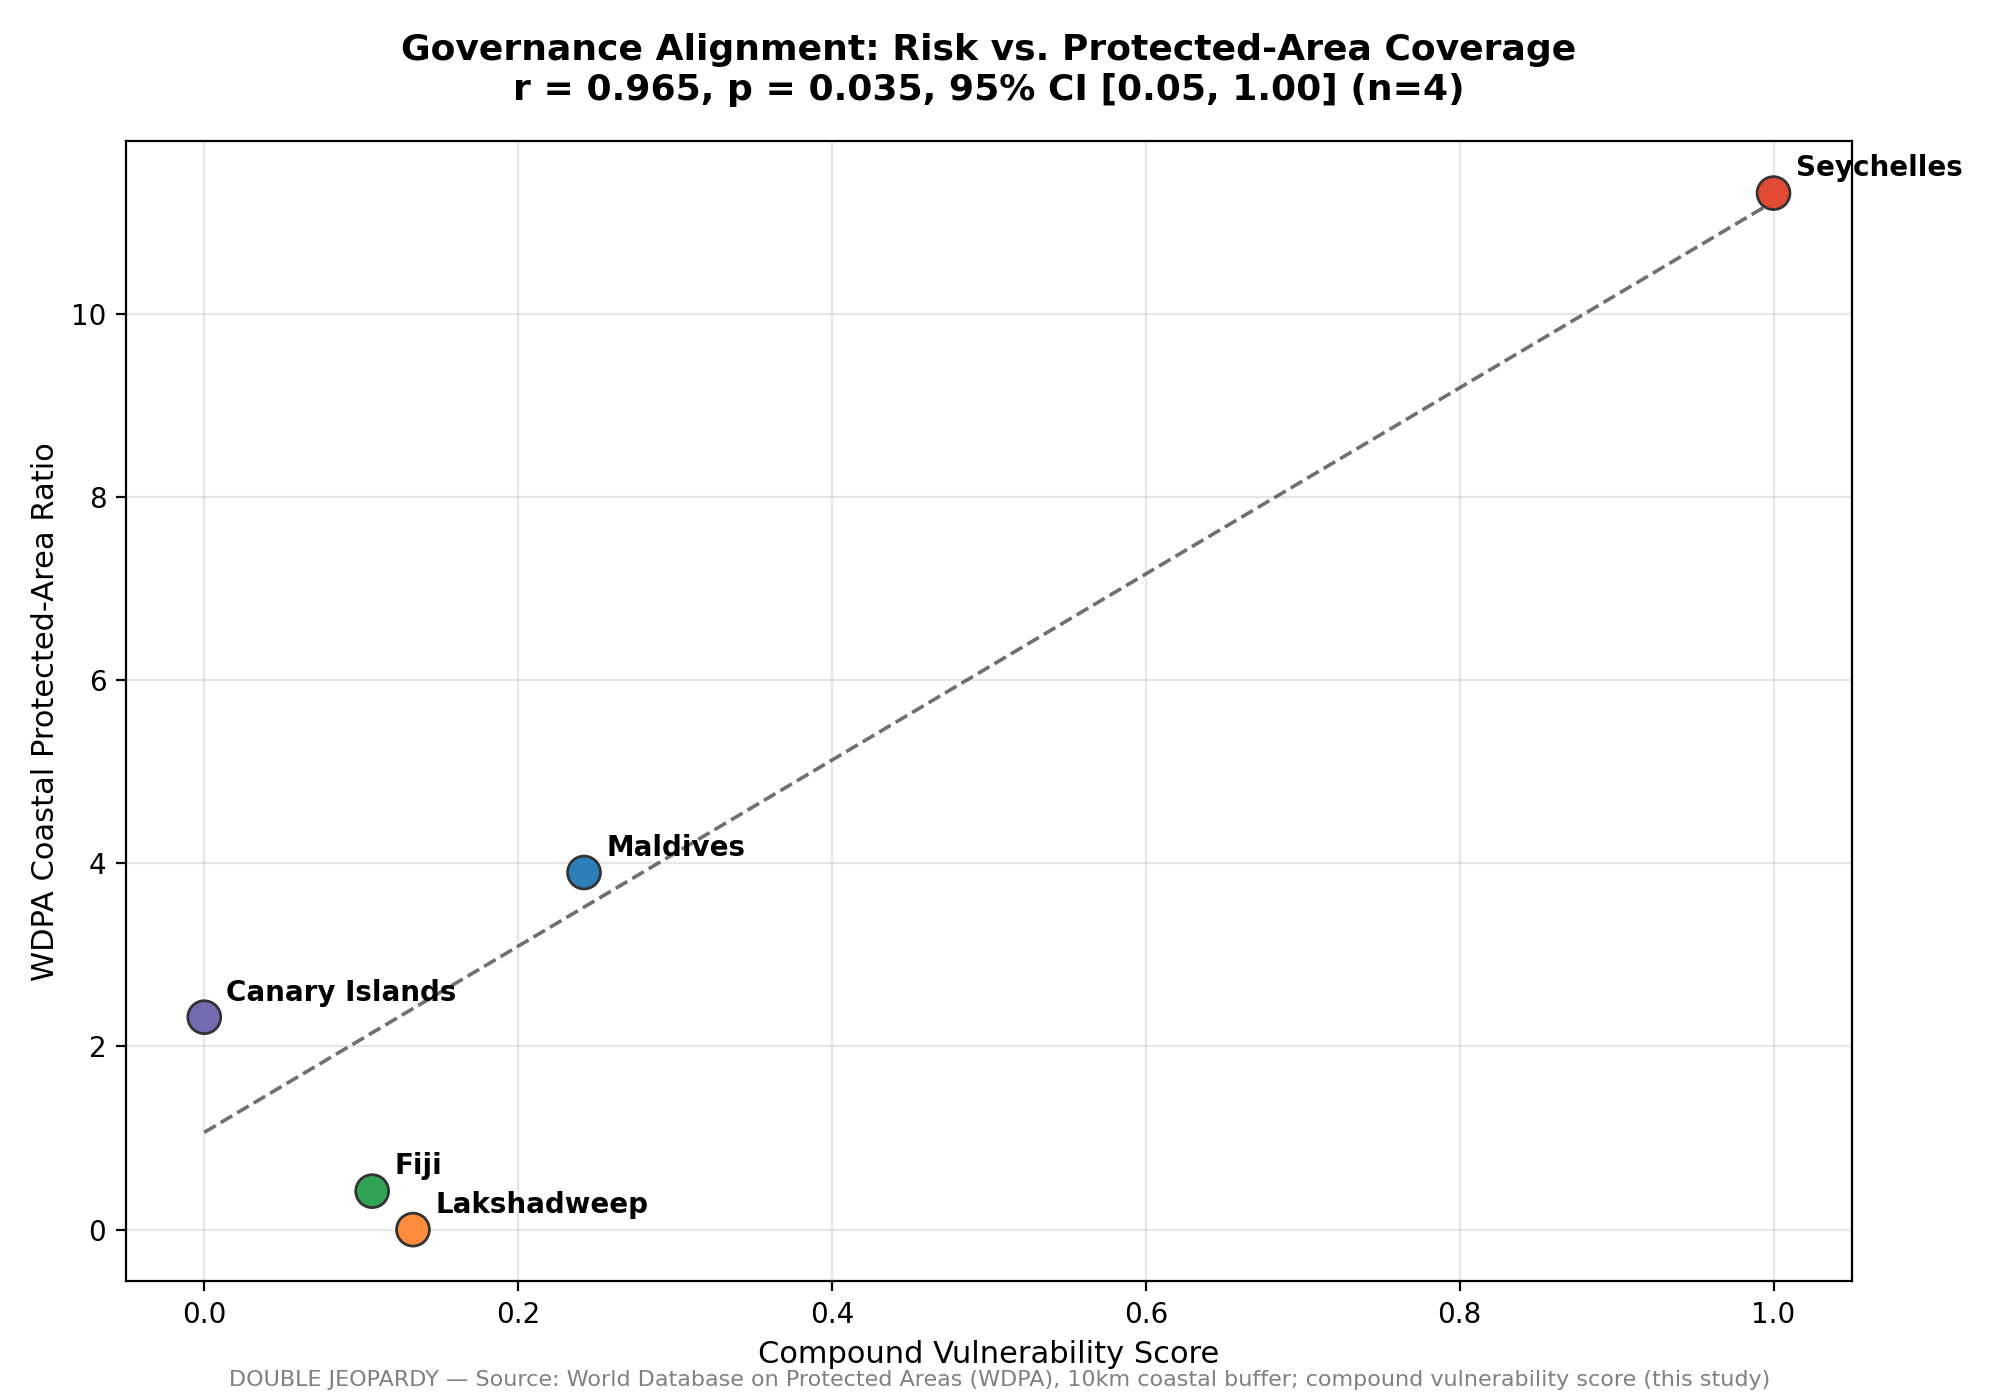
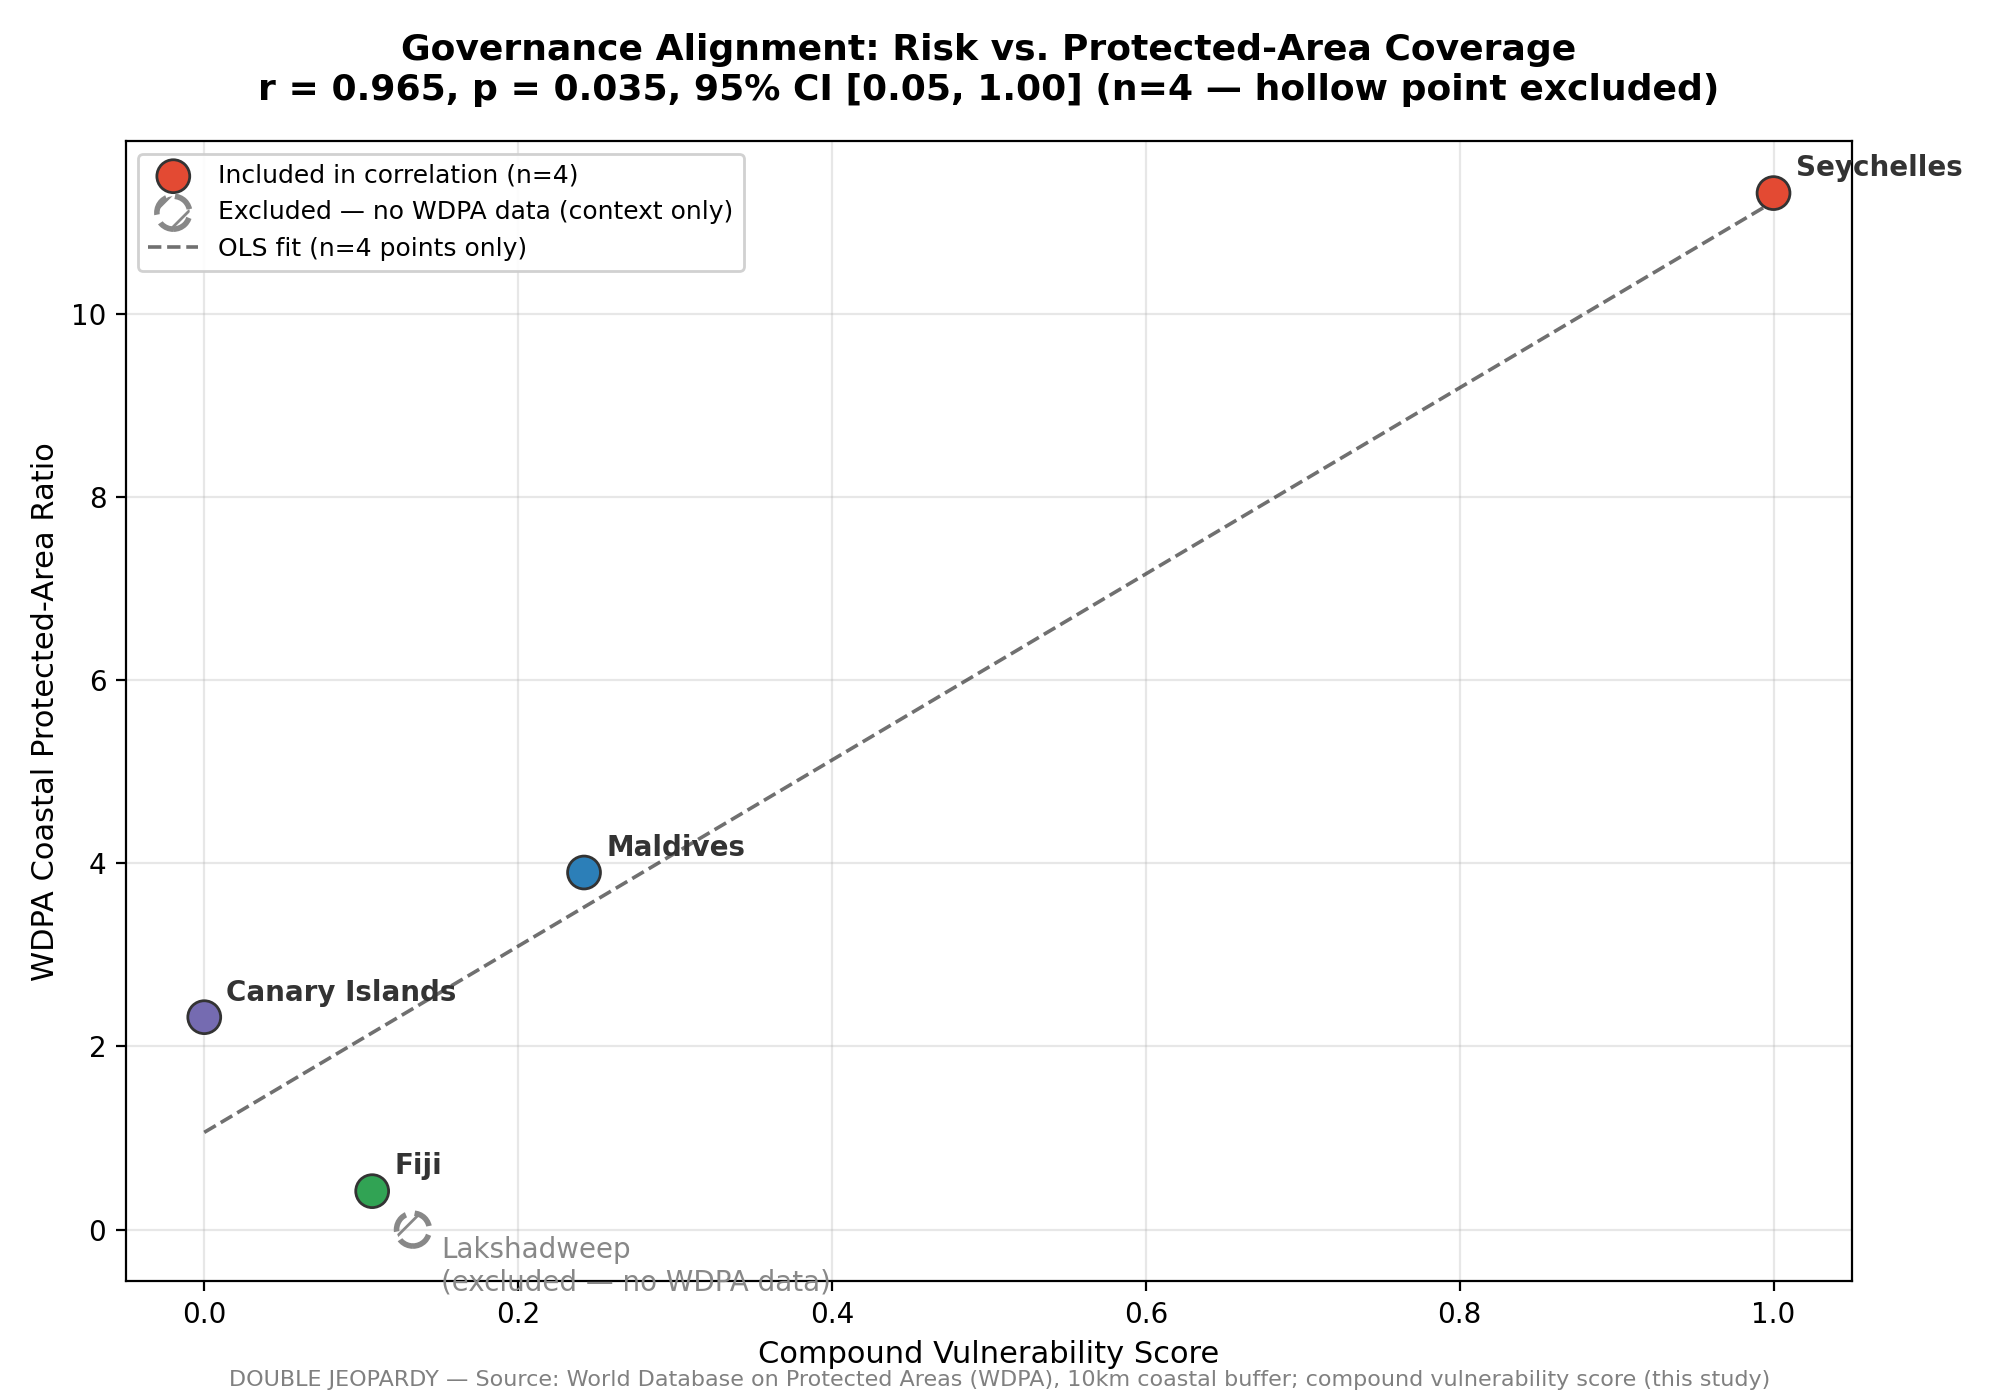
Fig 6: visually distinguish excluded Lakshadweep point from n=4 correlation

diff --git a/research_paper_figures.py b/research_paper_figures.py
@@ -249,8 +249,11 @@ def fig6_governance_alignment():
     # Lakshadweep's WDPA figure is a missing-data placeholder (0.0, not a
     # measured value -- see wdpa_coastal_buffer.py), so it's excluded from
     # the correlation itself even though it's still plotted below for
-    # context. See governance_correlation_test.py.
-    corr_df = df[~df.get("excluded_from_correlation", False)] if "excluded_from_correlation" in df.columns else df
+    # context. See governance_correlation_test.py. It's given a visually
+    # distinct (hollow, greyed-out) marker below specifically so a reader
+    # can't mistake it for one of the n=4 points the r/p is computed from.
+    is_excluded = df.get("excluded_from_correlation", pd.Series([False] * len(df))).astype(bool)
+    corr_df = df[~is_excluded]
 
     r, p = stats.pearsonr(corr_df["vulnerability_score"], corr_df["wdpa_ratio"])
     n = len(corr_df)
@@ -259,28 +262,44 @@ def fig6_governance_alignment():
     ci_low, ci_high = np.tanh(z - 1.96 * se), np.tanh(z + 1.96 * se)
 
     fig, ax = plt.subplots(figsize=(10, 7))
-    colors = [ISLAND_COLOR[i.title().replace("Canary", "Canary Islands")] for i in df["island"]]
-    ax.scatter(df["vulnerability_score"], df["wdpa_ratio"], s=140, c=colors,
-               edgecolor=EDGE, linewidth=1, zorder=3)
+
+    included = df[~is_excluded]
+    excluded = df[is_excluded]
+
+    included_colors = [ISLAND_COLOR[i.title().replace("Canary", "Canary Islands")] for i in included["island"]]
+    ax.scatter(included["vulnerability_score"], included["wdpa_ratio"], s=140, c=included_colors,
+               edgecolor=EDGE, linewidth=1, zorder=3, label=f"Included in correlation (n={n})")
+
+    if len(excluded):
+        ax.scatter(excluded["vulnerability_score"], excluded["wdpa_ratio"], s=140,
+                   facecolor="none", edgecolor="#888888", linewidth=2, linestyle="--",
+                   hatch="//", zorder=3, label="Excluded — no WDPA data (context only)")
 
     for _, row in df.iterrows():
         label = row["island"].title().replace("Canary", "Canary Islands")
+        excl = is_excluded[row.name]
+        if excl:
+            label += "\n(excluded — no WDPA data)"
         ax.annotate(label, (row["vulnerability_score"], row["wdpa_ratio"]),
-                    textcoords="offset points", xytext=(8, 6), fontsize=10, fontweight="bold")
+                    textcoords="offset points", xytext=(10, -22) if excl else (8, 6),
+                    fontsize=10, fontweight="bold" if not excl else "normal",
+                    color=EDGE if not excl else "#888888")
 
     # OLS best-fit line for visual reference — fit on the same n=4 used for
     # the reported correlation, so the line matches the r/p in the title
     slope, intercept, *_ = stats.linregress(corr_df["vulnerability_score"], corr_df["wdpa_ratio"])
     xs = np.linspace(corr_df["vulnerability_score"].min(), corr_df["vulnerability_score"].max(), 50)
-    ax.plot(xs, intercept + slope * xs, color=EDGE, linestyle="--", linewidth=1.3, alpha=0.7, zorder=2)
+    ax.plot(xs, intercept + slope * xs, color=EDGE, linestyle="--", linewidth=1.3, alpha=0.7, zorder=2,
+            label=f"OLS fit (n={n} points only)")
 
     ax.set_xlabel("Compound Vulnerability Score", fontsize=11)
     ax.set_ylabel("WDPA Coastal Protected-Area Ratio", fontsize=11)
     ax.set_title(
         "Governance Alignment: Risk vs. Protected-Area Coverage\n"
-        f"r = {r:.3f}, p = {p:.3f}, 95% CI [{ci_low:.2f}, {ci_high:.2f}] (n={n})",
+        f"r = {r:.3f}, p = {p:.3f}, 95% CI [{ci_low:.2f}, {ci_high:.2f}] (n={n} — hollow point excluded)",
         fontsize=13, fontweight="bold", pad=15
     )
+    ax.legend(loc="upper left", fontsize=9, framealpha=0.9)
     ax.grid(alpha=0.3)
 
     source_caption(fig, "DOUBLE JEOPARDY — Source: World Database on Protected Areas (WDPA), "
@@ -290,7 +309,7 @@ def fig6_governance_alignment():
     plt.savefig(out, dpi=200)
     plt.close(fig)
     print(f"Saved: {out}")
-    print(f"  Governance correlation: r={r:.3f}, p={p:.3f}, 95% CI=[{ci_low:.2f}, {ci_high:.2f}]")
+    print(f"  Governance correlation: r={r:.3f}, p={p:.3f}, 95% CI=[{ci_low:.2f}, {ci_high:.2f}] (n={n})")
 
 
 # ------------------------------------------------------------------

diff --git a/DJ_Research_Paper.md b/DJ_Research_Paper.md
@@ -160,7 +160,7 @@ I computed the 95% confidence interval for this correlation via Fisher's z-trans
   <img src="outputs/plots/fig6_governance_alignment.png" width="700">
 </p>
 
-**Figure 6.** Compound Vulnerability Score plotted against the coastal WDPA protected-area ratio for each island, with a fitted OLS reference line. r = 0.965, p = 0.035, 95% CI [0.05, 1.00] (n=4, Lakshadweep excluded — no WDPA measurement available) — a positive relationship that now reaches statistical significance, though the four-point sample is still too small to treat this as confirmatory on its own.
+**Figure 6.** Compound Vulnerability Score plotted against the coastal WDPA protected-area ratio for each island, with a fitted OLS reference line. Lakshadweep is shown as a hollow, hatched marker rather than a filled one — it has no WDPA measurement available and is plotted for visual context only, not included in the regression or the correlation below it. r = 0.965, p = 0.035, 95% CI [0.05, 1.00] (n=4, Lakshadweep excluded) — a positive relationship that now reaches statistical significance, though the four-point sample is still too small to treat this as confirmatory on its own.
 
 ### 4.6 Robustness and Sensitivity Checks
 
